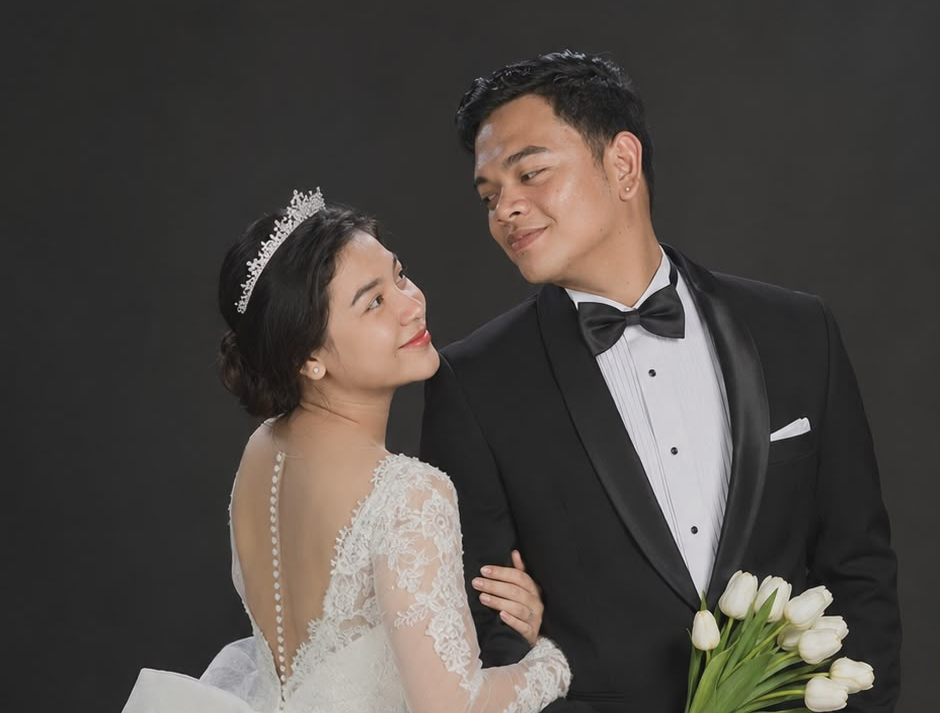
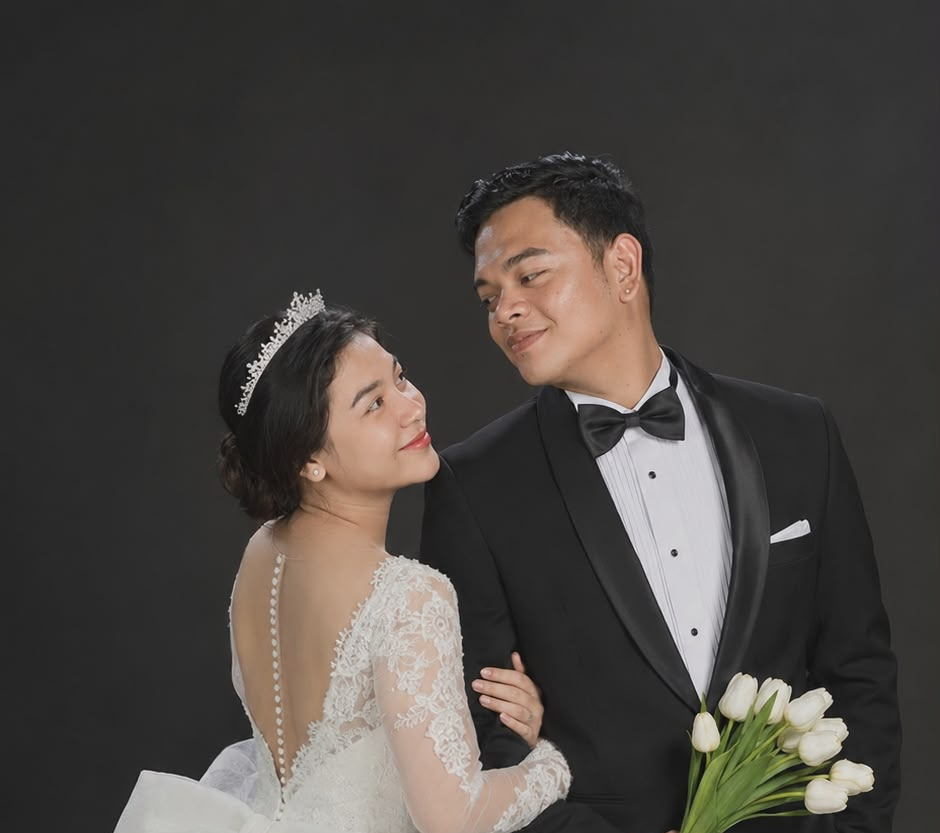
feat: bg and nameurl

diff --git a/wedding-invitation/src/components/Envelope.module.css b/wedding-invitation/src/components/Envelope.module.css
@@ -10,14 +10,14 @@
   z-index: 50;
   overflow: hidden;
   background:
-    linear-gradient(180deg, rgba(22, 31, 18, 0.48), rgba(22, 31, 18, 0.7)),
+    linear-gradient(180deg, rgba(253, 248, 240, 0.08), rgba(255, 238, 233, 0.16)),
     url('../assets/background.png') center / cover no-repeat;
 }
 
 @media (max-width: 520px) {
   .scene {
     background:
-      linear-gradient(180deg, rgba(22, 31, 18, 0.55), rgba(22, 31, 18, 0.78)),
+      linear-gradient(180deg, rgba(253, 248, 240, 0.08), rgba(255, 238, 233, 0.14)),
       url('../assets/couple.jpg') center top / cover no-repeat;
   }
 }

diff --git a/wedding-invitation/index.html b/wedding-invitation/index.html
@@ -4,7 +4,7 @@
     <meta charset="UTF-8" />
     <!-- <link rel="icon" type="image/svg+xml" href="/vite.svg" /> -->
     <meta name="viewport" content="width=device-width, initial-scale=1.0" />
-    <title>Marvin & Allysa — Civil Wedding Invitation</title>
+    <title>You are invited - Civil Wedding</title>
     <link rel="preconnect" href="https://fonts.googleapis.com" />
     <link rel="preconnect" href="https://fonts.gstatic.com" crossorigin />
     <link href="https://fonts.googleapis.com/css2?family=Great+Vibes&family=Pinyon+Script&family=Cormorant+Garamond:ital,wght@0,300;0,400;0,500;1,300;1,400&family=Cinzel:wght@400;500;600&family=Lato:wght@300;400&family=Noto+Serif:wght@400;700&display=swap" rel="stylesheet" />